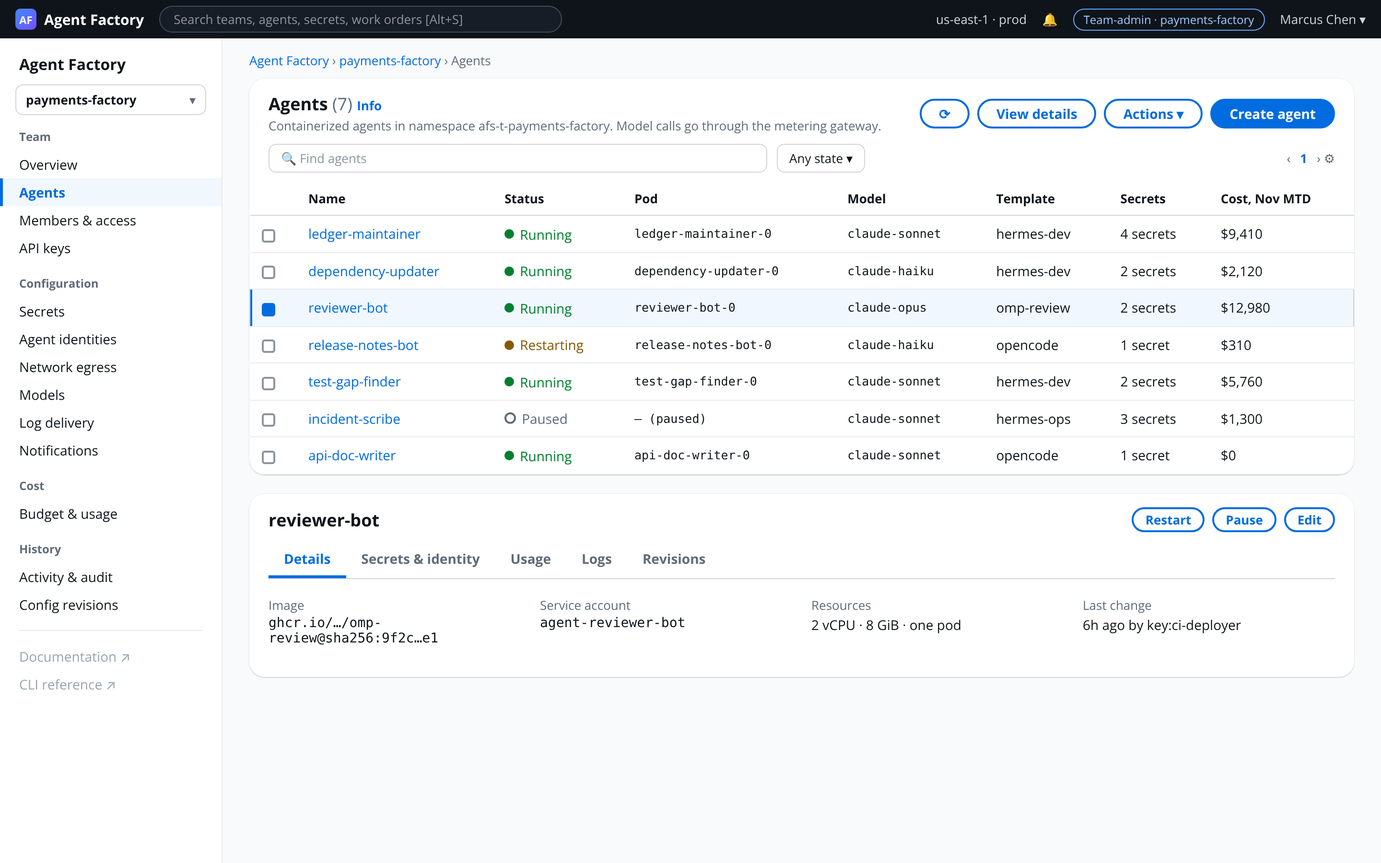
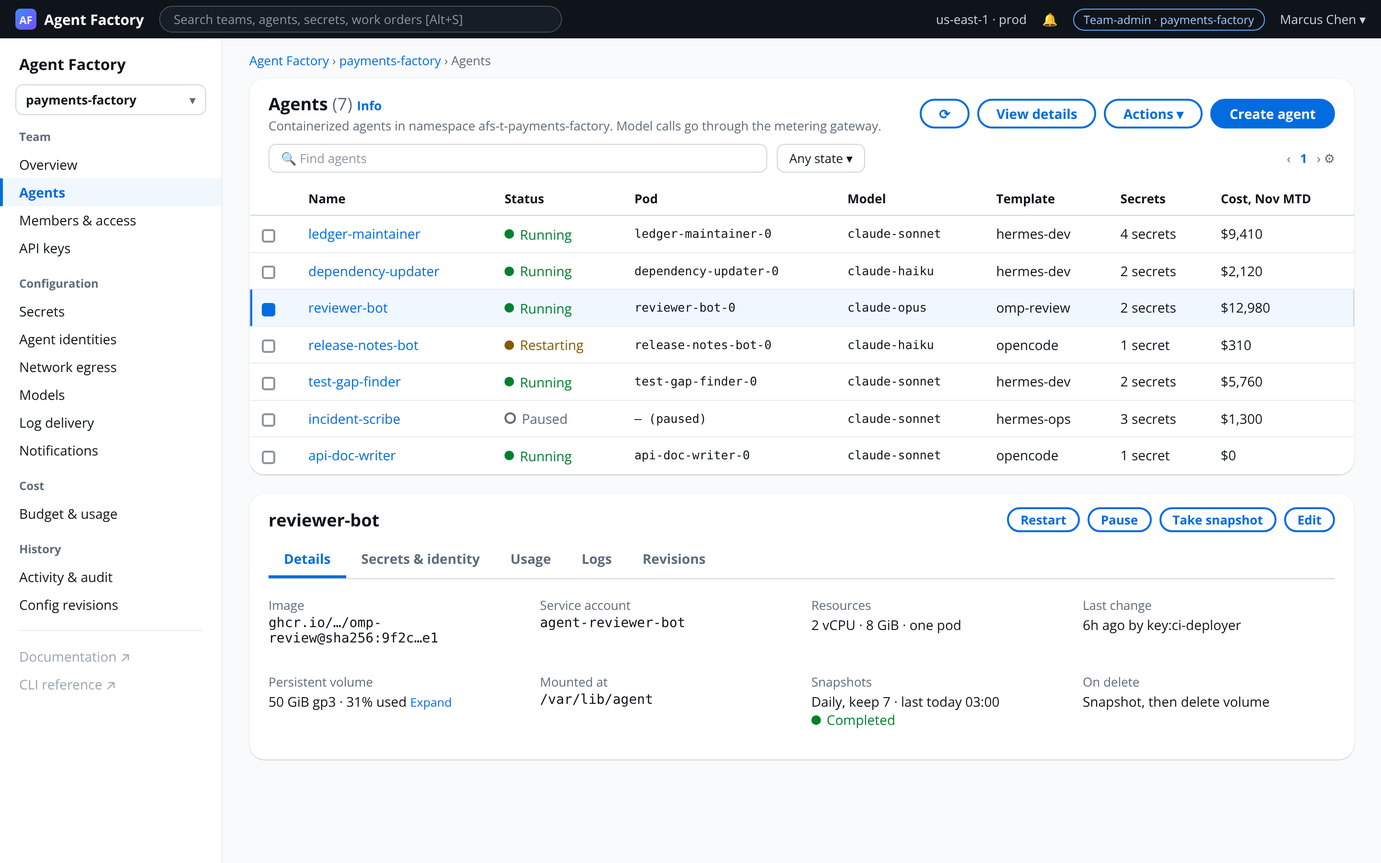
PRD: persistent volume per agent (AGT-9, ADR-007)
Per J: agents need storage for memory, configuration and work that survives restarts.
- AGT-9: one EBS volume per agent at /var/lib/agent; size, class, on-delete rule and
  snapshot schedule in the agent definition; viewers see it read-only.
- Reconciler: PVC retention, snapshots, drift (expand, restore from snapshot, report).
- Export bundles carry volume settings and latest snapshot references (CFG-5).
- Swarm pools: ephemeral scratch per worker, optional shared EFS per pool.
- Screens 07 and 08 re-rendered; fix leftover 'scale' wording.

Claude-Session: https://claude.ai/code/session_01ScLWHFmFgCNKdDm4Z32AqG

diff --git a/docs/ui/source/07-ta-agents.html b/docs/ui/source/07-ta-agents.html
@@ -140,11 +140,16 @@ tr.sel td:first-child{box-shadow:inset 2px 0 0 var(--blue)}
 <div class="tools"><div class="filter">🔍 Find agents</div><span class="sel">Any state ▾</span><div class="pager">‹ <b>1</b> › ⚙</div></div>
 <table><tr><th></th><th>Name</th><th>Status</th><th>Pod</th><th>Model</th><th>Template</th><th>Secrets</th><th>Cost, Nov MTD</th></tr>
 <tr class=""><td><span class="cb2 "></span></td><td><a>ledger-maintainer</a></td><td><span class="st ok">Running</span></td><td class="mono small">ledger-maintainer-0</td><td class="mono">claude-sonnet</td><td>hermes-dev</td><td>4 secrets</td><td>$9,410</td></tr><tr class=""><td><span class="cb2 "></span></td><td><a>dependency-updater</a></td><td><span class="st ok">Running</span></td><td class="mono small">dependency-updater-0</td><td class="mono">claude-haiku</td><td>hermes-dev</td><td>2 secrets</td><td>$2,120</td></tr><tr class="sel"><td><span class="cb2 on"></span></td><td><a>reviewer-bot</a></td><td><span class="st ok">Running</span></td><td class="mono small">reviewer-bot-0</td><td class="mono">claude-opus</td><td>omp-review</td><td>2 secrets</td><td>$12,980</td></tr><tr class=""><td><span class="cb2 "></span></td><td><a>release-notes-bot</a></td><td><span class="st warn">Restarting</span></td><td class="mono small">release-notes-bot-0</td><td class="mono">claude-haiku</td><td>opencode</td><td>1 secret</td><td>$310</td></tr><tr class=""><td><span class="cb2 "></span></td><td><a>test-gap-finder</a></td><td><span class="st ok">Running</span></td><td class="mono small">test-gap-finder-0</td><td class="mono">claude-sonnet</td><td>hermes-dev</td><td>2 secrets</td><td>$5,760</td></tr><tr class=""><td><span class="cb2 "></span></td><td><a>incident-scribe</a></td><td><span class="st pend">Paused</span></td><td class="mono small">— (paused)</td><td class="mono">claude-sonnet</td><td>hermes-ops</td><td>3 secrets</td><td>$1,300</td></tr><tr class=""><td><span class="cb2 "></span></td><td><a>api-doc-writer</a></td><td><span class="st ok">Running</span></td><td class="mono small">api-doc-writer-0</td><td class="mono">claude-sonnet</td><td>opencode</td><td>1 secret</td><td>$0</td></tr></table></div>
-<div class="card" style="position:relative"><div class="ch"><h2>reviewer-bot</h2><div class="btns"><span class="btn sm">Restart</span><span class="btn sm">Pause</span><span class="btn sm">Edit</span></div></div>
+<div class="card" style="position:relative"><div class="ch"><h2>reviewer-bot</h2><div class="btns"><span class="btn sm">Restart</span><span class="btn sm">Pause</span><span class="btn sm">Take snapshot</span><span class="btn sm">Edit</span></div></div>
 <div class="tabs" style="margin:0 20px 14px"><span class="on">Details</span><span>Secrets & identity</span><span>Usage</span><span>Logs</span><span>Revisions</span></div>
 <div class="cb"><div class="grid g4">
 <div class="kv"><div class="k">Image</div><div class="v mono small">ghcr.io/…/omp-review@sha256:9f2c…e1</div></div>
 <div class="kv"><div class="k">Service account</div><div class="v mono">agent-reviewer-bot</div></div>
 <div class="kv"><div class="k">Resources</div><div class="v">2 vCPU · 8 GiB · one pod</div></div>
-<div class="kv"><div class="k">Last change</div><div class="v">6h ago by key:ci-deployer</div></div></div></div></div>
+<div class="kv"><div class="k">Last change</div><div class="v">6h ago by key:ci-deployer</div></div></div>
+<div class="grid g4" style="margin-top:14px">
+<div class="kv"><div class="k">Persistent volume</div><div class="v">50 GiB gp3 · 31% used <a class="small">Expand</a></div></div>
+<div class="kv"><div class="k">Mounted at</div><div class="v mono">/var/lib/agent</div></div>
+<div class="kv"><div class="k">Snapshots</div><div class="v">Daily, keep 7 · last today 03:00 <span class="st ok">Completed</span></div></div>
+<div class="kv"><div class="k">On delete</div><div class="v">Snapshot, then delete volume</div></div></div></div></div>
 </main></div></body></html>

diff --git a/docs/ui/source/08-ta-create-agent.html b/docs/ui/source/08-ta-create-agent.html
@@ -145,6 +145,11 @@ tr.sel td:first-child{box-shadow:inset 2px 0 0 var(--blue)}
 <div class="card"><div class="ch"><h2>Model and resources</h2></div><div class="cb"><div class="grid g2">
 <div class="field"><label>Model</label><div class="hint">Enabled for this team</div><div class="input">claude-sonnet ▾</div></div>
 <div class="field"><label>Resources</label><div class="hint">One pod per agent. Add agents to add capacity.</div><div class="input">2 vCPU · 8 GiB ▾</div></div></div></div></div>
+<div class="card"><div class="ch"><div><h2>Persistent storage</h2><div class="sub">One volume for this agent's memory, configuration and work in progress, mounted at <span class="mono">/var/lib/agent</span>. It survives restarts, pauses, upgrades and reschedules.</div></div></div><div class="cb"><div class="grid g2">
+<div class="field"><label>Size (GiB)</label><div class="hint">1 to 1000. Can be expanded later, never shrunk.</div><div class="input">20</div></div>
+<div class="field"><label>Storage class</label><div class="hint">Offered by your service admins. Fixed after creation.</div><div class="input">gp3 · general purpose SSD, encrypted ▾</div></div>
+<div class="field"><label>When the agent is deleted</label><div class="input">Take a final snapshot, then delete the volume ▾</div></div>
+<div class="field"><label>Snapshot backups</label><div class="input">Daily, keep 7 ▾</div></div></div></div></div>
 <div class="card"><div class="ch"><div><h2>Secrets</h2><div class="sub">Team-shared secrets can be bound now. Secrets only this agent can read are added after it is created, under Secrets.</div></div><span class="btn sm">Add secret binding</span></div>
 <table><tr><th>Secret</th><th>Scope</th><th>Delivery</th><th>Target</th><th></th></tr>
 <tr><td>github-bot-key</td><td><span class="badge b-per" style="white-space:nowrap">Team shared</span></td><td>Environment variable</td><td class="mono">GITHUB_APP_KEY</td><td><a>Remove</a></td></tr>
@@ -152,7 +157,7 @@ tr.sel td:first-child{box-shadow:inset 2px 0 0 var(--blue)}
 <div style="display:flex;justify-content:flex-end;gap:8px"><span class="btn" style="border:0">Cancel</span><span class="btn">Preview CLI command</span><span class="btn p">Create agent</span></div>
 </div>
 <div style="width:360px"><div class="card"><div class="ch"><h2>Equivalent CLI</h2></div><div class="cb">
-<div class="code">afs agents create-agent \<br>&nbsp; --team-id team_01JD3Z… \<br>&nbsp; --name security-patcher \<br>&nbsp; --template hermes-dev \<br>&nbsp; --model-id claude-sonnet \<br>&nbsp; --secret-bindings file://bindings.json</div>
+<div class="code">afs agents create-agent \<br>&nbsp; --team-id team_01JD3Z… \<br>&nbsp; --name security-patcher \<br>&nbsp; --template hermes-dev \<br>&nbsp; --model-id claude-sonnet \<br>&nbsp; --storage SizeGiB=20,StorageClass=gp3,\<br>&nbsp;&nbsp;&nbsp; OnDelete=snapshot_then_delete,\<br>&nbsp;&nbsp;&nbsp; Snapshots=daily,Keep=7 \<br>&nbsp; --secret-bindings file://bindings.json</div>
 <div class="small muted" style="margin-top:8px">Every console action maps to one CLI operation and one REST call.</div></div></div></div>
 </div>
 </main></div></body></html>

diff --git a/docs/ui/source/gen.py b/docs/ui/source/gen.py
@@ -416,13 +416,18 @@ page("07-ta-agents", "ta", team_nav("agents", "ta"), f"""
 <div class="tools"><div class="filter">🔍 Find agents</div><span class="sel">Any state ▾</span><div class="pager">‹ <b>1</b> › ⚙</div></div>
 <table><tr><th></th><th>Name</th><th>Status</th><th>Pod</th><th>Model</th><th>Template</th><th>Secrets</th><th>Cost, Nov MTD</th></tr>
 {agent_rows("reviewer-bot")}</table></div>
-<div class="card" style="position:relative"><div class="ch"><h2>reviewer-bot</h2><div class="btns"><span class="btn sm">Restart</span><span class="btn sm">Pause</span><span class="btn sm">Edit</span></div></div>
+<div class="card" style="position:relative"><div class="ch"><h2>reviewer-bot</h2><div class="btns"><span class="btn sm">Restart</span><span class="btn sm">Pause</span><span class="btn sm">Take snapshot</span><span class="btn sm">Edit</span></div></div>
 <div class="tabs" style="margin:0 20px 14px"><span class="on">Details</span><span>Secrets & identity</span><span>Usage</span><span>Logs</span><span>Revisions</span></div>
 <div class="cb"><div class="grid g4">
 <div class="kv"><div class="k">Image</div><div class="v mono small">ghcr.io/…/omp-review@sha256:9f2c…e1</div></div>
 <div class="kv"><div class="k">Service account</div><div class="v mono">agent-reviewer-bot</div></div>
 <div class="kv"><div class="k">Resources</div><div class="v">2 vCPU · 8 GiB · one pod</div></div>
-<div class="kv"><div class="k">Last change</div><div class="v">6h ago by key:ci-deployer</div></div></div></div></div>
+<div class="kv"><div class="k">Last change</div><div class="v">6h ago by key:ci-deployer</div></div></div>
+<div class="grid g4" style="margin-top:14px">
+<div class="kv"><div class="k">Persistent volume</div><div class="v">50 GiB gp3 · 31% used <a class="small">Expand</a></div></div>
+<div class="kv"><div class="k">Mounted at</div><div class="v mono">/var/lib/agent</div></div>
+<div class="kv"><div class="k">Snapshots</div><div class="v">Daily, keep 7 · last today 03:00 {st('ok','Completed')}</div></div>
+<div class="kv"><div class="k">On delete</div><div class="v">Snapshot, then delete volume</div></div></div></div></div>
 """)
 
 page("08-ta-create-agent", "ta", team_nav("agents", "ta"), f"""
@@ -438,6 +443,11 @@ page("08-ta-create-agent", "ta", team_nav("agents", "ta"), f"""
 <div class="card"><div class="ch"><h2>Model and resources</h2></div><div class="cb"><div class="grid g2">
 <div class="field"><label>Model</label><div class="hint">Enabled for this team</div><div class="input">claude-sonnet ▾</div></div>
 <div class="field"><label>Resources</label><div class="hint">One pod per agent. Add agents to add capacity.</div><div class="input">2 vCPU · 8 GiB ▾</div></div></div></div></div>
+<div class="card"><div class="ch"><div><h2>Persistent storage</h2><div class="sub">One volume for this agent's memory, configuration and work in progress, mounted at <span class="mono">/var/lib/agent</span>. It survives restarts, pauses, upgrades and reschedules.</div></div></div><div class="cb"><div class="grid g2">
+<div class="field"><label>Size (GiB)</label><div class="hint">1 to 1000. Can be expanded later, never shrunk.</div><div class="input">20</div></div>
+<div class="field"><label>Storage class</label><div class="hint">Offered by your service admins. Fixed after creation.</div><div class="input">gp3 · general purpose SSD, encrypted ▾</div></div>
+<div class="field"><label>When the agent is deleted</label><div class="input">Take a final snapshot, then delete the volume ▾</div></div>
+<div class="field"><label>Snapshot backups</label><div class="input">Daily, keep 7 ▾</div></div></div></div></div>
 <div class="card"><div class="ch"><div><h2>Secrets</h2><div class="sub">Team-shared secrets can be bound now. Secrets only this agent can read are added after it is created, under Secrets.</div></div><span class="btn sm">Add secret binding</span></div>
 <table><tr><th>Secret</th><th>Scope</th><th>Delivery</th><th>Target</th><th></th></tr>
 <tr><td>github-bot-key</td><td><span class="badge b-per" style="white-space:nowrap">Team shared</span></td><td>Environment variable</td><td class="mono">GITHUB_APP_KEY</td><td><a>Remove</a></td></tr>
@@ -445,7 +455,7 @@ page("08-ta-create-agent", "ta", team_nav("agents", "ta"), f"""
 <div style="display:flex;justify-content:flex-end;gap:8px"><span class="btn" style="border:0">Cancel</span><span class="btn">Preview CLI command</span><span class="btn p">Create agent</span></div>
 </div>
 <div style="width:360px"><div class="card"><div class="ch"><h2>Equivalent CLI</h2></div><div class="cb">
-<div class="code">afs agents create-agent \\<br>&nbsp; --team-id team_01JD3Z… \\<br>&nbsp; --name security-patcher \\<br>&nbsp; --template hermes-dev \\<br>&nbsp; --model-id claude-sonnet \\<br>&nbsp; --secret-bindings file://bindings.json</div>
+<div class="code">afs agents create-agent \\<br>&nbsp; --team-id team_01JD3Z… \\<br>&nbsp; --name security-patcher \\<br>&nbsp; --template hermes-dev \\<br>&nbsp; --model-id claude-sonnet \\<br>&nbsp; --storage SizeGiB=20,StorageClass=gp3,\\<br>&nbsp;&nbsp;&nbsp; OnDelete=snapshot_then_delete,\\<br>&nbsp;&nbsp;&nbsp; Snapshots=daily,Keep=7 \\<br>&nbsp; --secret-bindings file://bindings.json</div>
 <div class="small muted" style="margin-top:8px">Every console action maps to one CLI operation and one REST call.</div></div></div></div>
 </div>
 """)

diff --git a/enterprise-agent-factory-service-initial-PRD.md b/enterprise-agent-factory-service-initial-PRD.md
@@ -73,7 +73,7 @@ on another. Only service admins grant service admin.
 |---|:-:|:-:|:-:|
 | Create / delete teams, set ceilings and quotas | ✓ | | |
 | Edit team settings, suspend / resume | ✓ | ✓ | |
-| Agents: create, edit, scale, pause, restart, delete | ✓ | ✓ | |
+| Agents: create, edit, pause, restart, delete; expand volume, take snapshot | ✓ | ✓ | |
 | Members and API keys | ✓ | ✓ (team roles only) | |
 | Secrets: create, rotate, bind | ✓ | ✓ | |
 | Secrets: see names, references, usage | ✓ | ✓ | ✓ |
@@ -182,13 +182,18 @@ status and conditions, budget burn, agent health and recent activity.
 **T2 · Agents.** Agents with status, model, runtime template, bound secrets and cost. Selecting an agent
 opens its detail panel with *Restart*, *Pause* and *Edit*, and tabs for secrets and identity, usage, logs
 and revisions. An agent is one identity and runs as exactly one pod, so there is no replica count or
-*Scale* action. A team adds capacity by adding agents (see AGT-7).
+*Scale* action. A team adds capacity by adding agents (see AGT-7). The detail panel also shows the agent's
+persistent volume (size, storage class, on-delete rule, snapshot schedule and last snapshot) with
+*Take snapshot* and *Expand volume*. Team viewers see the same panel read-only.
 
 ![Agents](docs/ui/07-ta-agents.png)
 
 **T3 · Create agent.** Template from the Agentic Teammates catalog, image pinned by digest, persona, model
 (limited to models enabled for the team), resources, and secret bindings as environment variables or
 files. There is no replicas field: each agent is a single pod with its own ServiceAccount and IAM identity.
+The *Persistent storage* section sets the agent's volume for memory, configuration and work in progress:
+size, storage class (from the classes a service admin offers), what happens to the volume when the agent
+is deleted, and snapshot backups (AGT-9).
 Binding lists only the team's shared secrets and this agent's own secrets. The side panel shows the
 equivalent CLI command.
 
@@ -241,7 +246,10 @@ similar work across many repositories, so they share the pool's identity instead
 model is swarm (ephemeral team, one lifetime budget and expiry) → pools (one identity each, N workers) →
 workers (pods). Pools in a swarm can be grouped (for example "scan" and "fix" stages) and hand work to
 each other. Audit and usage are attributed to the pool, with the worker's pod name recorded for
-troubleshooting. Long-running team agents stay one identity, one pod (AGT-7).
+troubleshooting. Long-running team agents stay one identity, one pod (AGT-7). Storage for a pool is
+chosen per pool: an ephemeral scratch volume per worker (the default, deleted with the worker), and
+optionally one shared read-write volume for the pool (EFS) for shared memory or caches. Pool workers do
+not get individual persistent volumes.
 
 ![Ephemeral team budget](docs/ui/14-admin-ephemeral-team.png)
 
@@ -256,7 +264,7 @@ owning teams to notify, SLA due date and the remediation team assigned.
 |---|---|---|
 | Onboard a team | Service admin | Teams → Create team → details, guardrails → models & egress → budget → first team-admin → review → team appears `Reconciling`, then `Ready` |
 | Stand up agents | Team-admin | Secrets → Create secret → Agents → Create agent → bind secrets → status `Running` |
-| Respond to budget alert | Team-admin | Alert (Slack/email) → Budget & usage → see top agents → pause or scale an agent, or raise budget up to ceiling |
+| Respond to budget alert | Team-admin | Alert (Slack/email) → Budget & usage → see top agents → pause an agent, or raise budget up to ceiling |
 | Hard cap reached | System → team-admin | Gateway blocks calls → agents receive `BudgetExceeded` → team shows `Blocked (cap)` → team-admin asks service admin for a higher ceiling or waits for reset |
 | Investigate | Team viewer | Overview → conditions → Activity & audit → Config revisions |
 | Recover environment | Service admin | Restore DB (PITR) or import bundle → reconciler converges → dashboard shows `Healthy` |
@@ -291,6 +299,7 @@ Priorities: **P0** required for the first production release (phase 1), **P1** p
 | AGT-6 | Optional per-agent IAM role for least privilege | P1 |
 | AGT-7 | One agent is one identity and one pod (a StatefulSet with one replica, so the name, ServiceAccount, IAM session and audit trail stay stable). There is no replica count. A team scales by adding agents. Phase 2 swarm pools are the exception (AGT-8) | P0 |
 | AGT-8 | Swarms (ephemeral teams) hold several pools that work together. Each pool has its own identity, secrets and a worker count; its workers share that identity. Pools can be grouped into stages. The swarm has one lifetime budget; usage and audit are attributed to the pool, with the worker pod recorded | P2 |
+| AGT-9 | Every agent has one persistent volume (encrypted EBS gp3 by default, through a StatefulSet volume claim) mounted at `/var/lib/agent` for memory, configuration and work in progress. It survives restarts, pauses, image upgrades and reschedules. Team-admins set size (1 to 1000 GiB, default 20, grow only), storage class (from the service admin's list, fixed after creation), on-delete rule (snapshot then delete by default, delete, or retain) and snapshot schedule (off, daily or weekly, keeping 1 to 90). Viewers see the settings and snapshot history read-only. Volume usage counts toward the team's storage quota, and EBS cost is attributed to the team by tag | P0 |
 
 ### 6.3 Secrets
 
@@ -311,7 +320,7 @@ Priorities: **P0** required for the first production release (phase 1), **P1** p
 | BUD-3 | IAM explicit deny on the team's Bedrock role when the cap is reached (backstop), removed on reset or increase | P0 |
 | BUD-4 | Alerts at configurable thresholds (default 50/80/100%), once per period per threshold | P0 |
 | BUD-5 | Usage by agent, model and day in near real time | P0 |
-| BUD-6 | Daily CUR reconciliation of Bedrock (by inference-profile tag) and EKS compute (split cost allocation by namespace); variance alerts over 3% | P1 |
+| BUD-6 | Daily CUR reconciliation of Bedrock (by inference-profile tag), EKS compute (split cost allocation by namespace) and agent volumes and snapshots (by `afs-team-id` tag); variance alerts over 3% | P1 |
 | BUD-7 | Showback export by cost center | P1 |
 | BUD-8 | Lifetime budgets with expiry for ephemeral teams | P2 |
 
@@ -333,7 +342,7 @@ Priorities: **P0** required for the first production release (phase 1), **P1** p
 | CFG-2 | Reconciler applies desired state at startup and continuously; manual drift is reverted and audited | P0 |
 | CFG-3 | Every change is versioned (config revisions) and every mutation is audited (append-only) | P0 |
 | CFG-4 | PITR backups and cross-region/cross-account snapshot copies | P0 |
-| CFG-5 | Export a versioned, checksummed bundle (no secret values); import with ARN/account mapping and dry-run plan | P1 |
+| CFG-5 | Export a versioned, checksummed bundle (no secret values); import with ARN/account mapping and dry-run plan. Agent volumes are carried as their settings plus the latest snapshot reference; import can restore an agent's volume from that snapshot once it is shared or copied to the target account | P1 |
 | CFG-6 | Restore a team to a previous revision | P1 |
 
 ### 6.7 Delivery and notifications
@@ -395,7 +404,7 @@ the REST API contract in `-restapi/api/openapi.yaml`.
 |---|---|---|
 | M0 Foundations | Repos, CI, schema v1, OpenAPI skeleton, auth middleware, `/v1/me` | All gates green; isolation and RLS tests pass |
 | M1 Teams & access | TEAM-1..5, ACC-1..3, CFG-1..3, reconciler for namespace/network/IAM; console S1–S3, T1, T6, V1; CLI `teams`, `members` | A service admin onboards a team end to end in dev |
-| M2 Agents & secrets | AGT-1..4, AGT-7, SEC-1..3, SEC-5; console T2–T4, V2; CLI `agents`, `secrets` | Agents run with bound secrets; viewers cannot change anything (tested) |
+| M2 Agents & secrets | AGT-1..4, AGT-7, AGT-9, SEC-1..3, SEC-5; console T2–T4, V2; CLI `agents`, `secrets` | Agents run with bound secrets; viewers cannot change anything (tested) |
 | M3 Spend control | BUD-1..5, OPS-2; gateway; console T5, S4 | Load test proves the hard cap; alerts fire once per threshold |
 | M4 Production readiness | CFG-4, BUD-6/7, OPS-1/3, ACC-4, AGT-5/6, CFG-5/6, S5 | DR rebuild drill passes; security review signed off |
 | Phase 2 | TEAM-7, BUD-8, AGT-8, P2 screen | First POC team runs and tears itself down |

diff --git a/docs/solution-design.md b/docs/solution-design.md
@@ -112,13 +112,16 @@ The Agent Factory Service (AFS) lets enterprise teams create and run their own *
 - `NetworkPolicy` default deny all ingress/egress, then allow DNS, allow egress to `afs-llm-gateway`, allow egress to the team's egress allow-list (FQDN rules with Cilium, or via an egress proxy).
 - ServiceAccounts per agent, EKS Pod Identity associations to the team's IAM role.
 - One StatefulSet with exactly one replica per agent (stable name, ServiceAccount and IAM session). There is no replica count: a team scales by adding agents.
+- One persistent volume per agent from the StatefulSet's `volumeClaimTemplate` (EBS CSI, encrypted, `WaitForFirstConsumer`, tagged `afs-team-id` and `afs-agent-id`), mounted at `/var/lib/agent`. The StatefulSet's PVC retention policy is `Retain` for both scale-down and delete, so pausing or re-creating the StatefulSet never loses data; the reconciler alone deletes a volume, following the agent's on-delete rule. Snapshots are EBS snapshots through CSI `VolumeSnapshot`, taken on the agent's schedule, pruned to its retention count, and recorded in `agent_volume_snapshots`. The team's `ResourceQuota` includes `requests.storage`.
 - IAM role `afs-team-<id>` with an ABAC policy scoped by `aws:PrincipalTag/afs-team-id`.
 - Bedrock application inference profile per (team, model) with cost allocation tags.
 - ExternalSecret (External Secrets Operator) objects that project referenced Secrets Manager entries into the namespace.
 - Agent workloads rendered from the Agentic Teammates CRD/Helm chart.
 - Log delivery (Fluent Bit output per team or CloudWatch subscription filters).
 
-It records `observed_generation`, phase and conditions per resource in `resource_status`, which the API and UI display. Drift (live state differs from desired) is corrected and logged as an audit event with actor `system:reconciler`. Deletes use an ordered finalizer flow: scale agents to zero, revoke IAM, delete inference profiles, delete namespace, mark row `deleted`.
+It records `observed_generation`, phase and conditions per resource in `resource_status`, which the API and UI display. Drift (live state differs from desired) is corrected and logged as an audit event with actor `system:reconciler`. Deletes use an ordered finalizer flow: scale agents to zero, apply each agent's on-delete rule to its volume (final snapshot, then delete or retain), revoke IAM, delete inference profiles, delete namespace, mark row `deleted`.
+
+Volume drift is handled like any other: a volume smaller than desired is expanded (online, EBS supports it); a PVC that is missing is re-created from the agent's latest completed snapshot when one exists (empty otherwise) and raises an alert; a volume bigger than desired, or of another storage class, is reported as a condition rather than changed, because EBS cannot shrink and a class change needs a data migration. EBS volumes live in one Availability Zone, so an agent reschedules within its volume's zone; moving it to another zone is a restore from snapshot.
 
 **afs-llm-gateway (Go).** The only path from agents to Bedrock. Runs in `afs-system`, multi-AZ.
 
@@ -239,7 +242,7 @@ Reserve → invoke → settle, as in section 3.1. Thresholds emit `budget.thresh
 - `config_revisions`: a trigger snapshots every change to versioned tables (who, when, full JSON), giving history and rollback ("restore revision N").
 - `audit_log`: append-only (UPDATE/DELETE revoked from the app role and blocked by trigger).
 - **Backups:** RDS automated backups with PITR, daily snapshot copied cross-region and cross-account (AWS Backup vault with vault lock).
-- **Export bundle:** `POST /v1/exports` produces a versioned, SHA-256-checksummed JSON (or YAML) document with `schemaVersion`, all teams, agents, members, bindings, budgets, configuration and secret *references*. Stored in S3 and downloadable.
+- **Export bundle:** `POST /v1/exports` produces a versioned, SHA-256-checksummed JSON (or YAML) document with `schemaVersion`, all teams, agents (including volume settings), members, bindings, budgets, configuration, secret *references* and each agent's latest volume *snapshot reference*. Import can restore volumes from those snapshots once they are shared with or copied to the target account and region. Stored in S3 and downloadable.
 - **Import:** `POST /v1/imports` with a mapping file (old account id → new, ARN rewrites, cluster id), dry-run by default, showing a plan (create/update/skip) before apply. Secrets must already exist (replicated via Secrets Manager multi-region replication or recreated) in the target account.
 - **Restart behavior:** the reconciler's startup full-reconcile re-applies everything. A brand-new cluster plus a restored DB converges to the full environment with no manual steps.
 

diff --git a/docs/architectural-decision-record.md b/docs/architectural-decision-record.md
@@ -69,3 +69,18 @@ Accepted, Proposed (needs review), Superseded.
   `afs-team-id` tag as a second check.
 - Consequences: team slug, agent name and secret name are immutable. An agent secret can be bound only
   to its own agent. Moving a secret between scopes means creating a new one.
+
+## ADR-007 One persistent volume per agent
+
+- Status: Proposed (from J's PRD review, 2026-11-21)
+- Context: agents keep memory, configuration and work in progress that must survive restarts,
+  upgrades and reschedules.
+- Decision: each agent's StatefulSet has one `volumeClaimTemplate` (EBS through the CSI driver,
+  encrypted, gp3 by default) mounted at `/var/lib/agent`. Size, storage class, on-delete rule and
+  snapshot schedule are part of the agent definition. PVC retention is `Retain`; the reconciler alone
+  deletes volumes, after a final snapshot by default. Snapshots are recorded in the database and
+  referenced by export bundles. Phase 2 pool workers get ephemeral scratch volumes, with an optional
+  shared EFS volume per pool.
+- Consequences: volumes grow but never shrink, and the class is fixed after creation. An agent is tied
+  to its volume's Availability Zone until restored from a snapshot elsewhere. Storage counts toward team
+  quotas and costs are attributed by tag.
